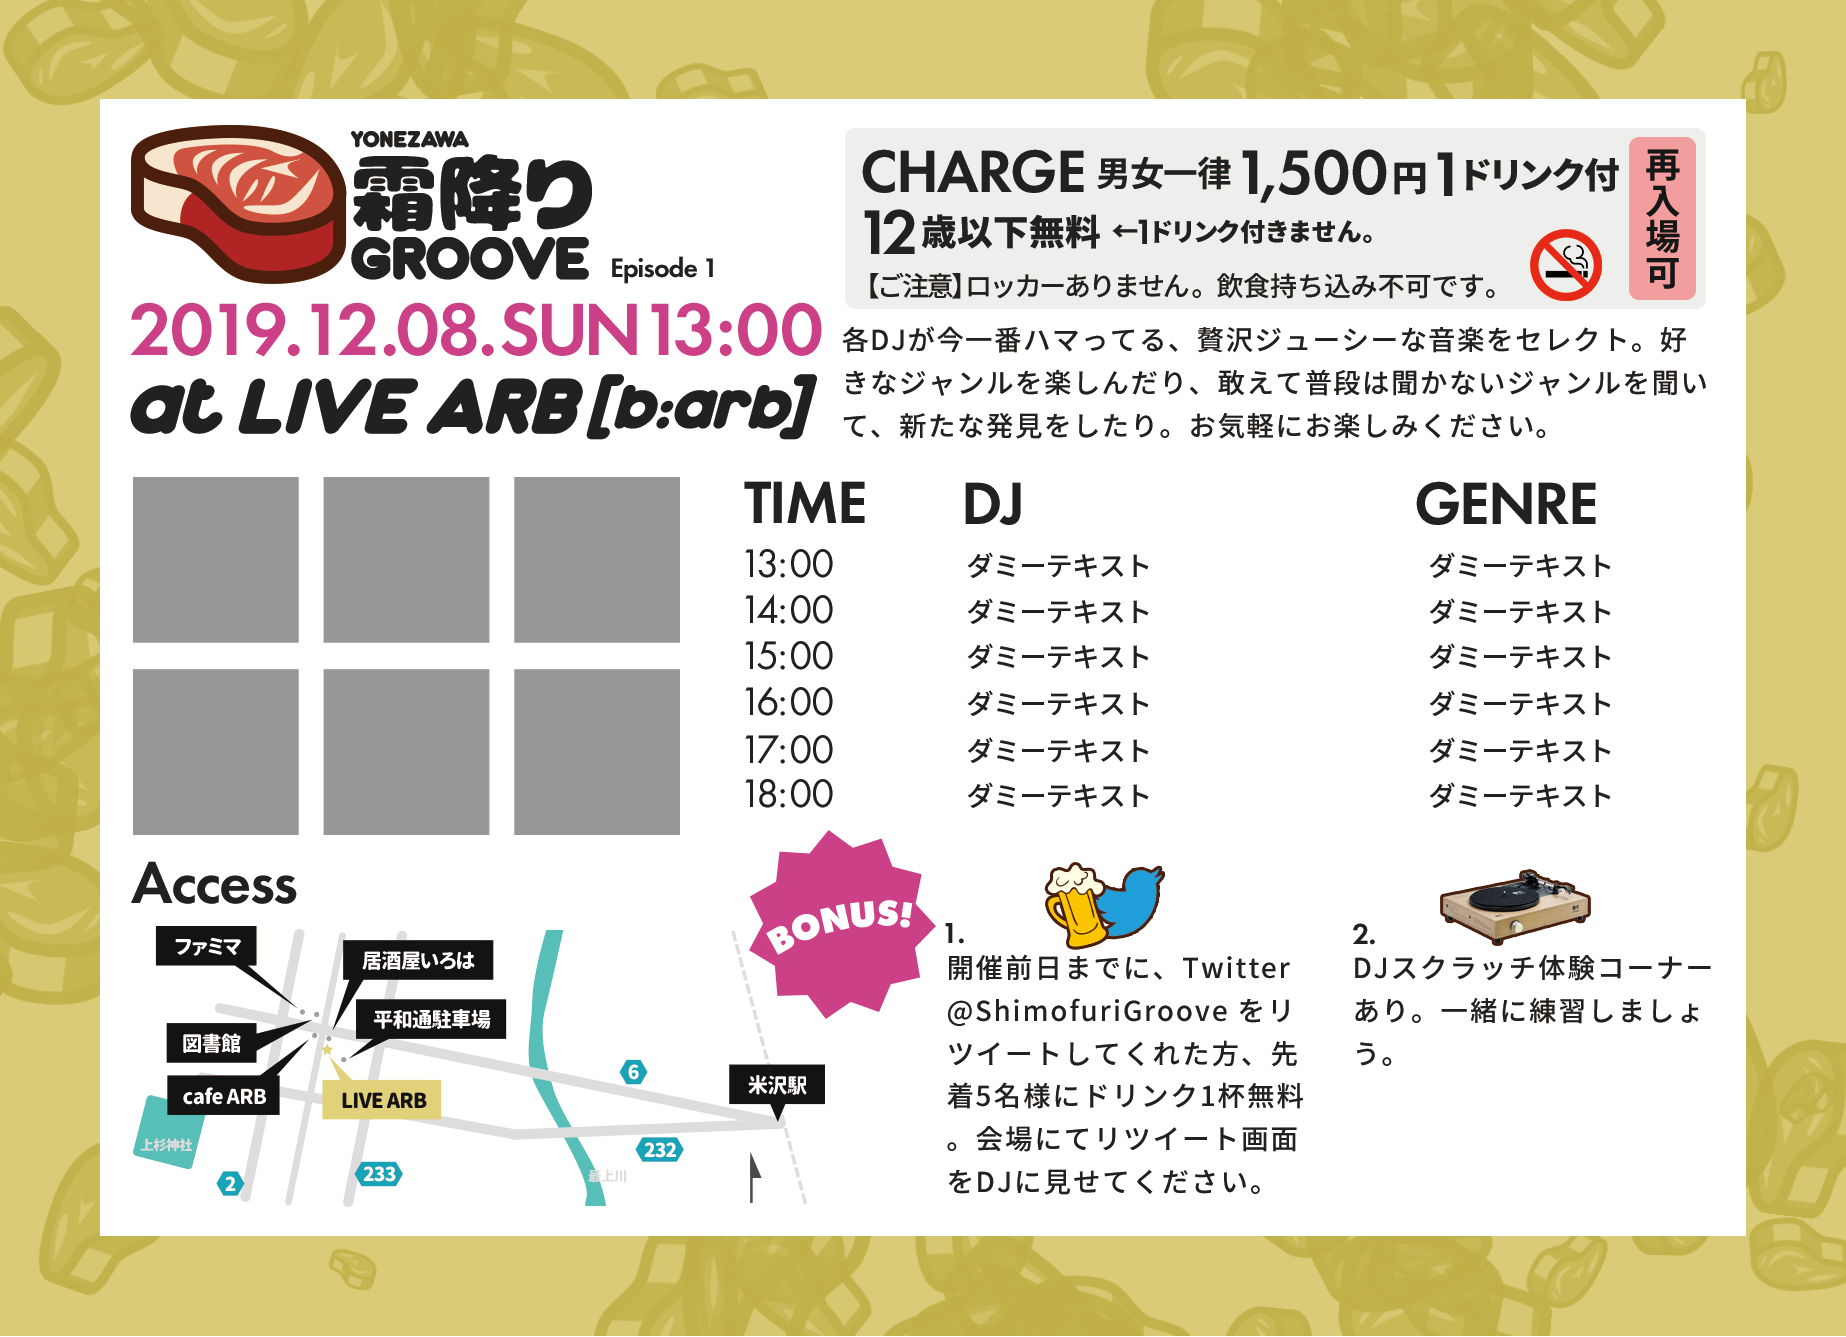
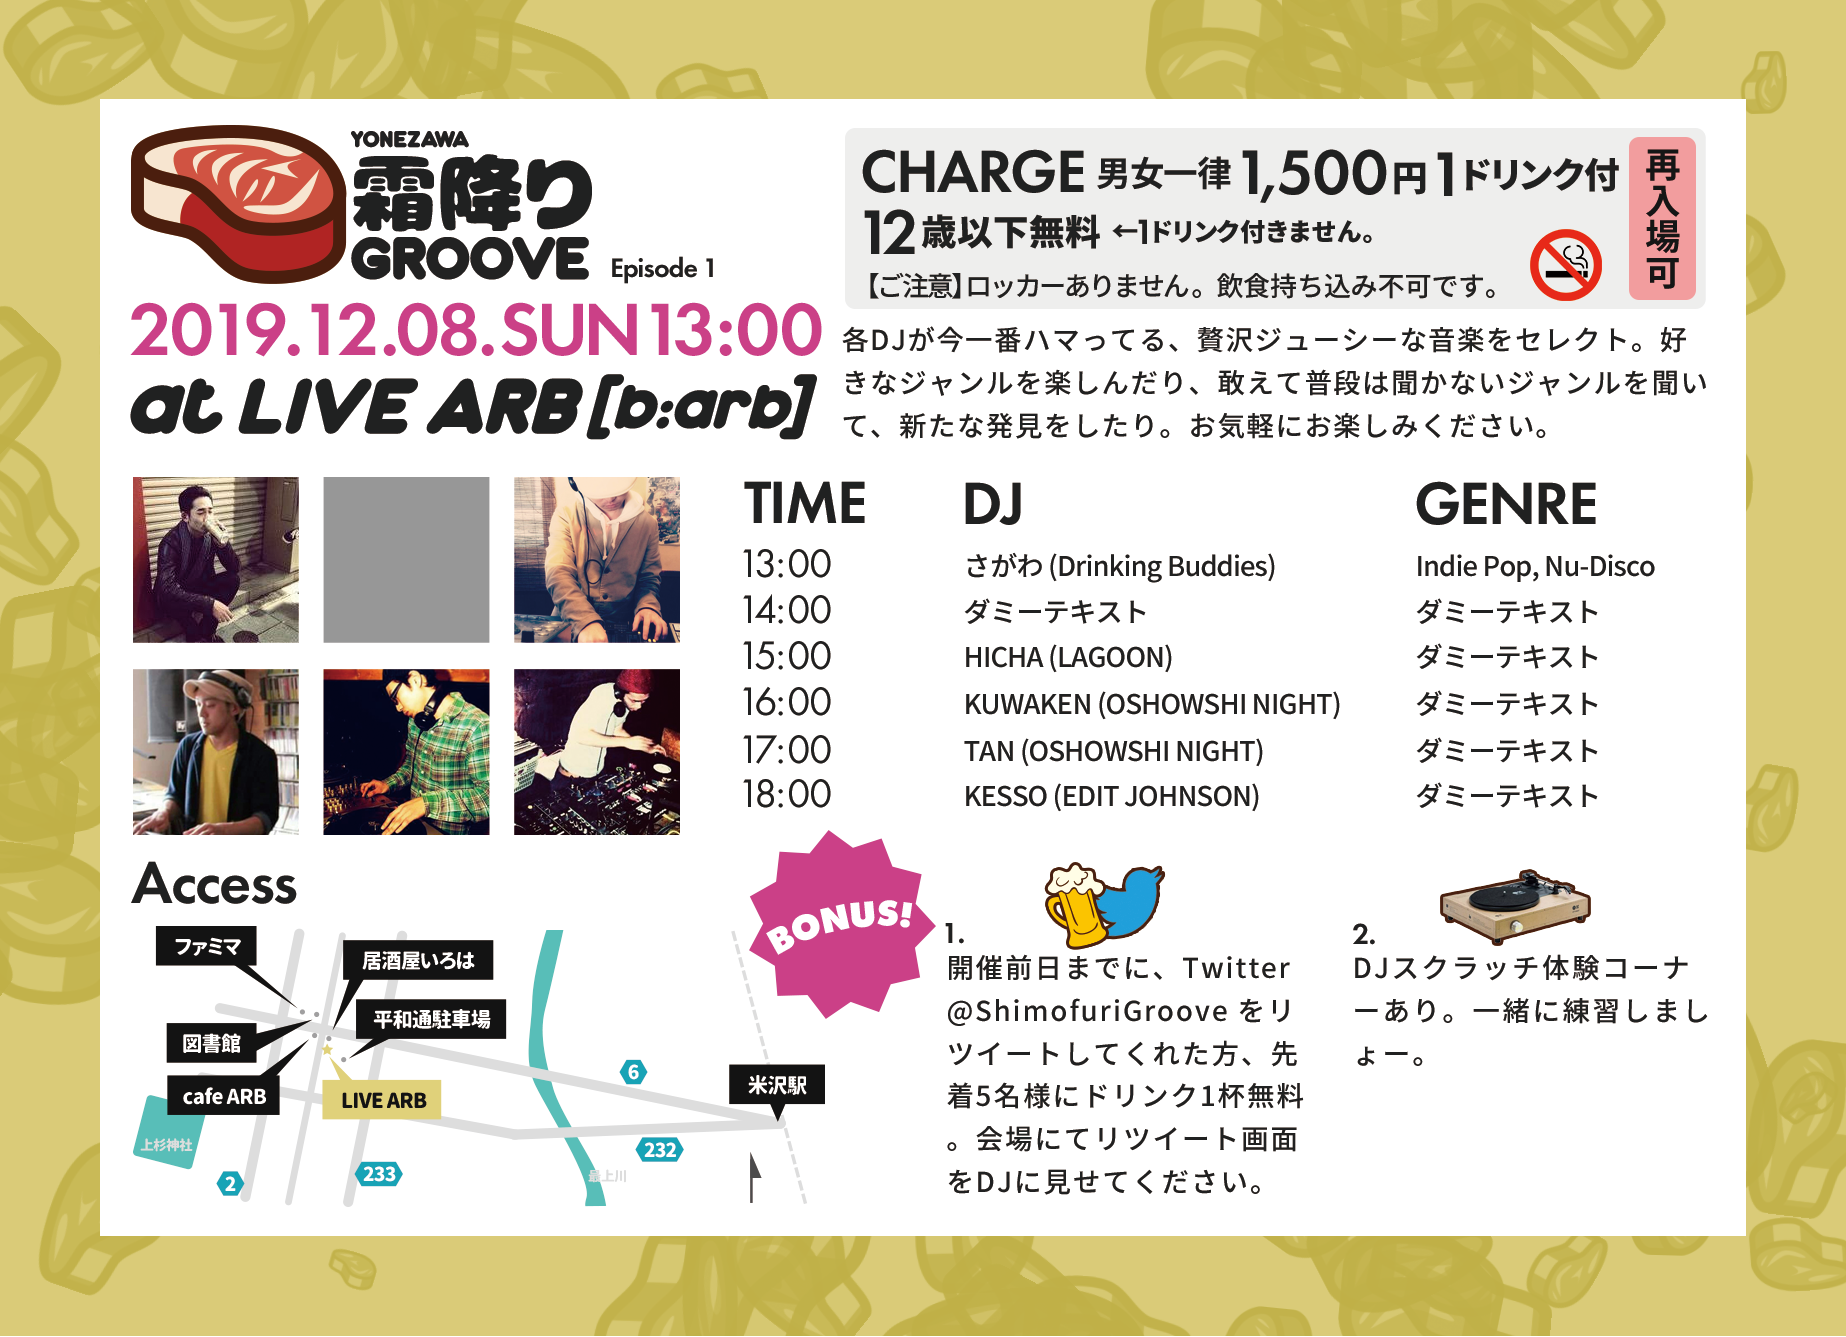
uldate flyer

diff --git a/index.html b/index.html
@@ -70,7 +70,6 @@
         </section>
         <section>
             <h2>🦅近日開催予定</h2>
-            <!-- <p class="text-center">準備中</p> -->
             <div class="row">
                 <div class="col-md-6">
                     <p><a href="img/01/flyer.png" target="_blank"><img src="img/01/flyer.png" class="img-fluid"></a></p>
@@ -80,11 +79,12 @@
                         2019/12/8/SUN 13:00-19:00<br>
                         at LIVE ARB [b:arb]<br>
                         1,500円 1ドリンク付 12歳以下無料 再入場可<br>
-                        ●●:●● ●● <br>
-                        ●●:●● ●● <br>
-                        ●●:●● ●● <br>
-                        ●●:●● ●● <br>
-                        ●●:●● ●● <br>
+                        13:00 さがわ (Drinking Buddies) Indie Pop,Nu-Disco <br>
+                        14:00 ●● <br>
+                        15:00 HICHA (LAGOON) <br>
+                        16:00 KUWAKEN (OSHOWSHINIGHT) <br>
+                        17:00 TAN (OSHOWSHINIGHT) <br>
+                        18:00 KESSO (EDIT JOHNSON)
                     </p>
                     <iframe src="https://www.google.com/maps/embed?pb=!1m14!1m8!1m3!1d3147.8016911132613!2d140.1099035!3d37.9116977!3m2!1i1024!2i768!4f13.1!3m3!1m2!1s0x5f8af03ec396aaab%3A0x30deca2d8b11396b!2sLive%20ARB!5e0!3m2!1sja!2sjp!4v1572711206202!5m2!1sja!2sjp" width="600" height="450" frameborder="0" style="border:0;" allowfullscreen=""></iframe>
                 </div>
